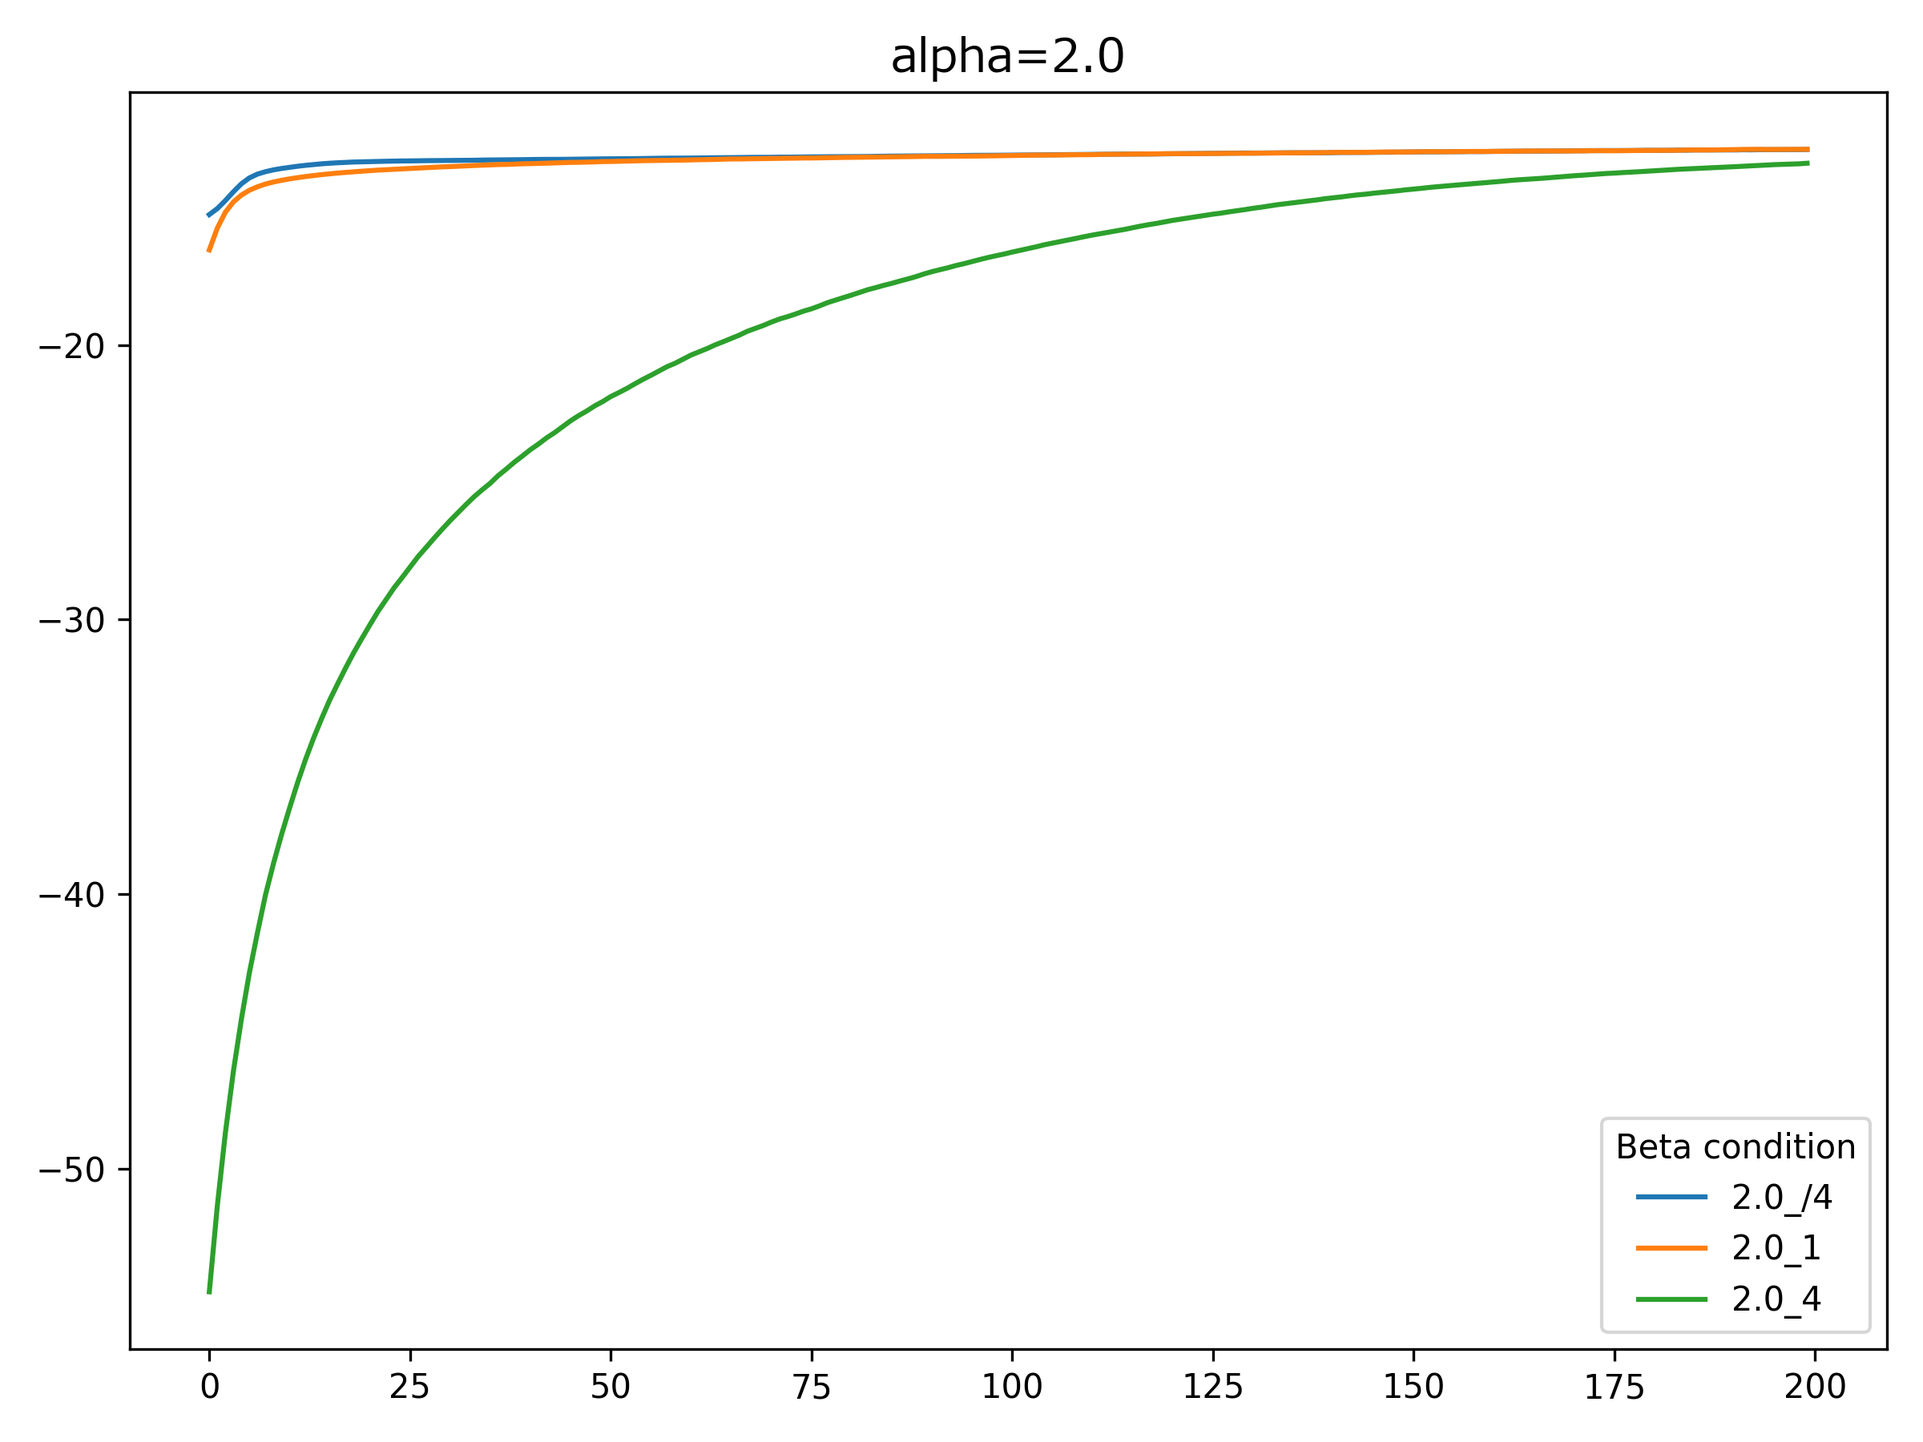
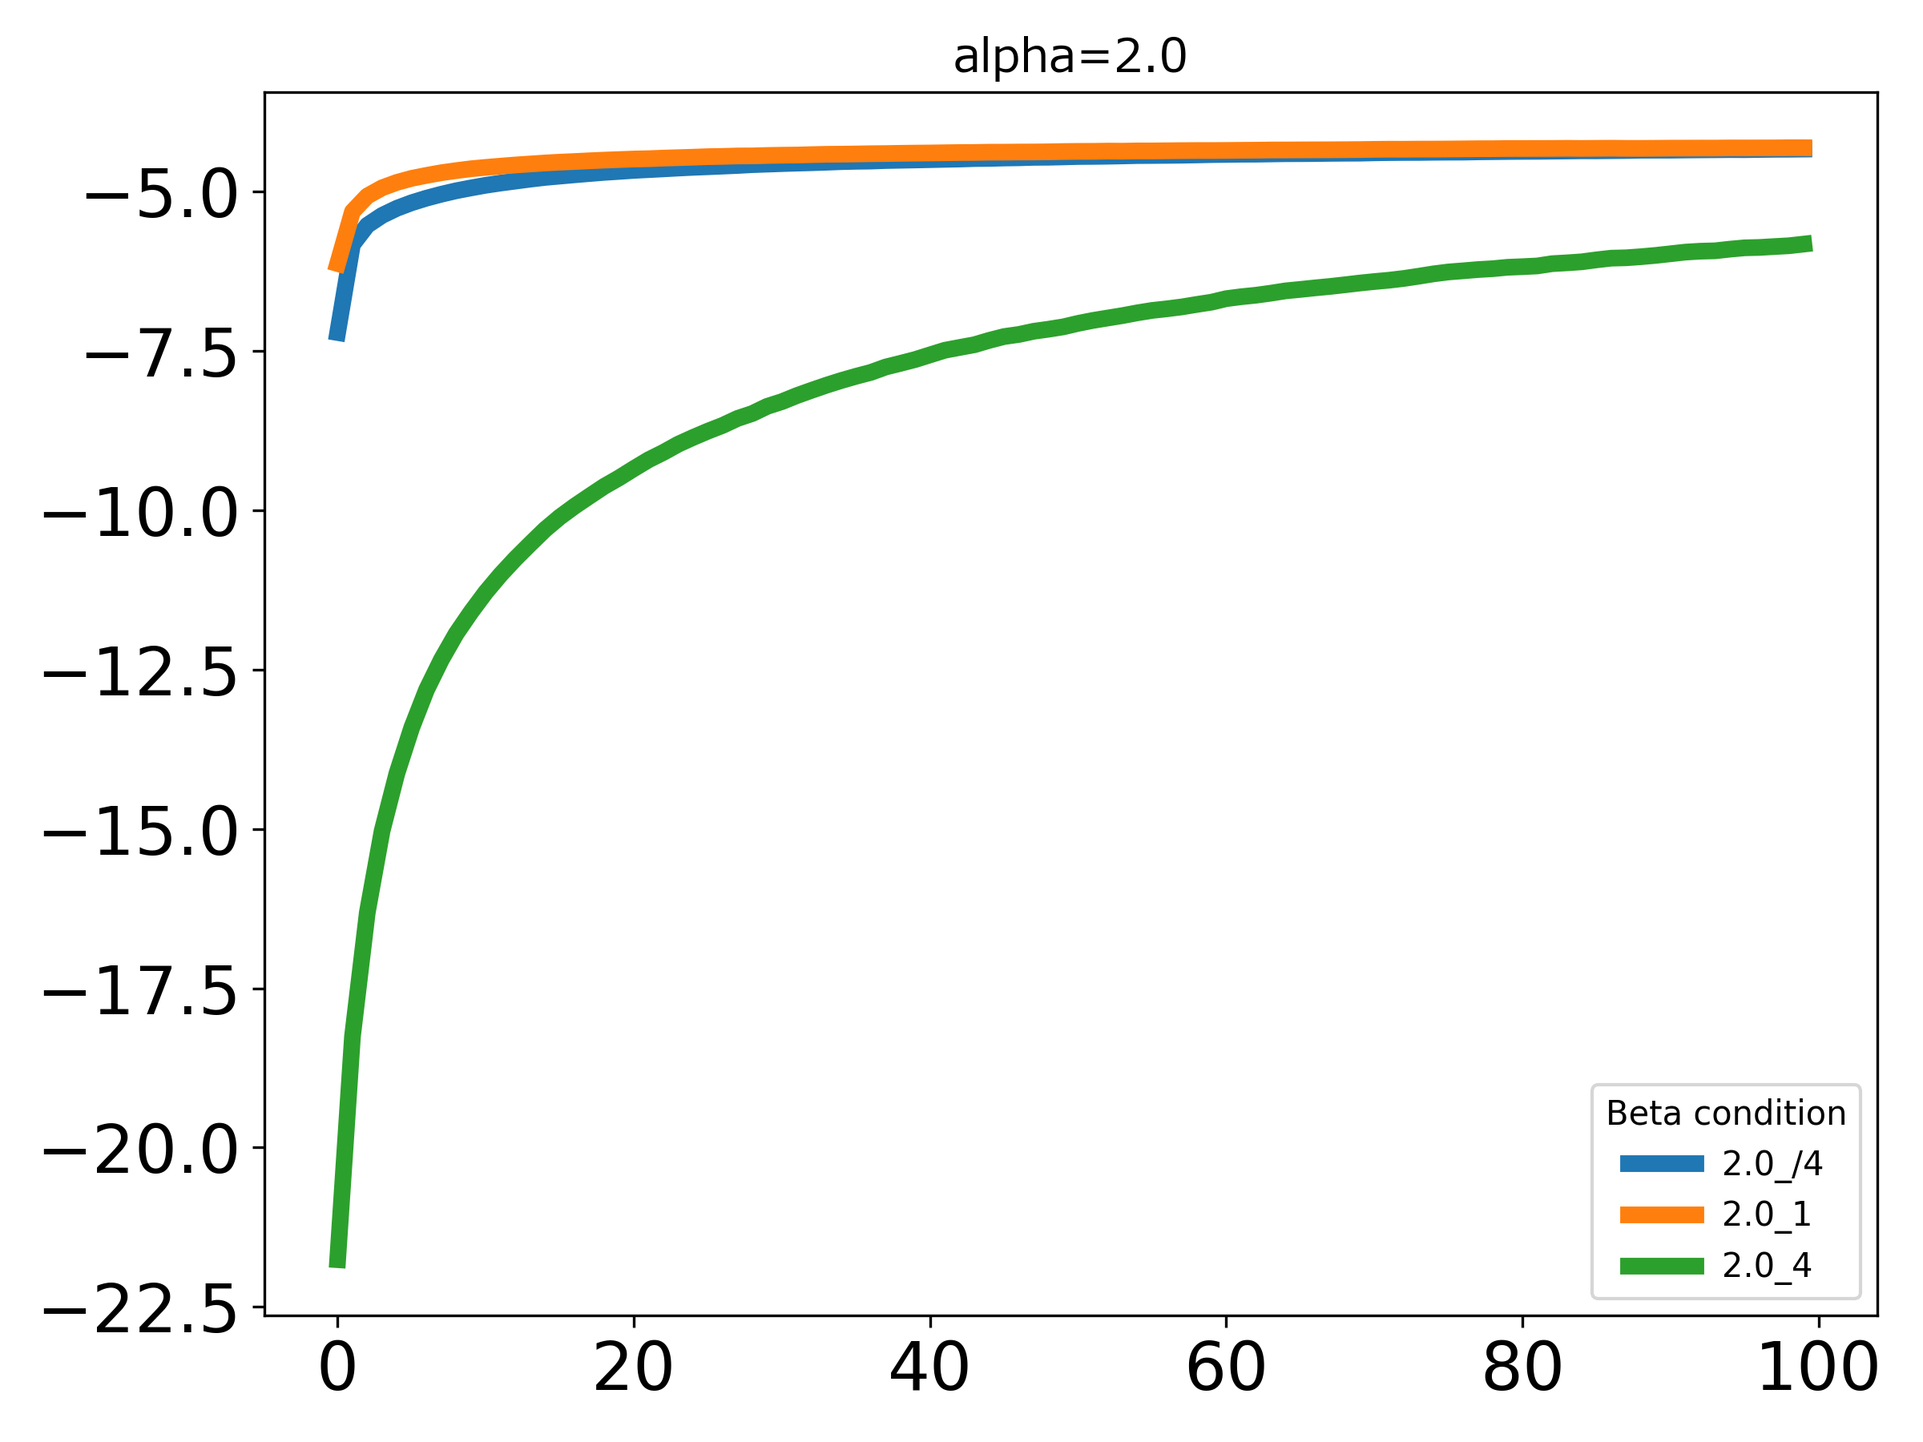
2026/11/15

diff --git a/DBRBM/train_DBRBM/training_DBRBM.py b/DBRBM/train_DBRBM/training_DBRBM.py
@@ -12,54 +12,60 @@ import csv
 # from sklearn.datasets import load_diabetes
 from sklearn.datasets import load_wine
 
-#実験設定の記述（人工データ）
-# CONFIG = {
-#     "num_visible": 10, 
-#     "alpha_list": [0.5, 1.0, 2.0],
-#     "lerning_rate": 0.01,   # ← 少し大きめにして学習速度の差を開かせる
-#     "num_epochs": 100,      # ← 収束までの過程が見える程度の長さに
-#     "cd_k": 1,
-#     "batch_size": 32,       # ← 標準的なバッチサイズで勾配を安定させる
-#     "TRIALS": 200,           # ← 乱数によるブレを消すため、最低10回は平均をとる
-#     # 教師モデルの設定
-#     "num_samples": 1000,    # ← データ数を増やして真の分布を安定させる
-#     "burn_in_steps": 1000,
-#     "teacher_beta": 3.0,
-#     "teacher_bias_scale": 0.5,
-#     "output_path": "results.csv"
-# }
+# 実験設定の記述（人工データ）
+CONFIG = {
+    "num_visible": 10, 
+    "alpha_list": [0.5],#, 1.0, 2.0
+    "lerning_rate": 0.01,   # ← 少し大きめにして学習速度の差を開かせる
+    "num_epochs": 10,      # ← 収束までの過程が見える程度の長さに
+    "cd_k": 1,
+    "batch_size": 32,       # ← 標準的なバッチサイズで勾配を安定させる
+    "TRIALS": 1,           # ← 乱数によるブレを消すため、最低10回は平均をとる
+    # 教師モデルの設定
+    "num_samples": 100,    # ← データ数を増やして真の分布を安定させる
+    "burn_in_steps": 1000,
+    "teacher_beta": 3.0,
+    "teacher_bias_scale": 0.5,
+    "output_path": "results.csv", 
+    "update_method": "sgd" #"exact" or "adam" or "sgd"
+}
+
+if CONFIG["update_method"] == "exact":
+    CONFIG["batch_size"] = CONFIG["num_samples"]  # exact法では、全データを使うためバッチサイズはデータ数と同じにする
+
 
 # train_data = load_diabetes()  # データセットをロード
-train_data = load_wine()
-X = train_data.data
-Y = train_data.target
-print("train_data.data.shape", X.shape)
-print("train_data.target.shape", Y.shape)
+# train_data = load_wine()
+# X = train_data.data
+# Y = train_data.target
+# print("train_data.data.shape", X.shape)
+# print("train_data.target.shape", Y.shape)
 
-X = pd.DataFrame(X)  # データをDataFrameに変換
-Y = pd.DataFrame(Y)  # ターゲットをDataFrameに変換
-df = pd.concat([X,Y], axis=1)
-print("train_data.shape", df.shape)
-print(df.head()) #先頭から5行を表示
+# X = pd.DataFrame(X)  # データをDataFrameに変換
+# Y = pd.DataFrame(Y)  # ターゲットをDataFrameに変換
+# df = pd.concat([X,Y], axis=1)
+# print("train_data.shape", df.shape)
+# print(df.head()) #先頭から5行を表示
 
-print("columns", len(df.columns))
-print("rows", len(df))
-# 実験設定（実データ）
-CONFIG = {
-    "num_visible": len(df.columns), 
-    "alpha_list": [0.5, 1.0, 2.0],
-    "lerning_rate": 0.01,   # ← 少し大きめにして学習速度の差を開かせる
-    "num_epochs": 200,      # ← 収束までの過程が見える程度の長さに
-    "cd_k": 1,
-    "batch_size": 16,       # ← 標準的なバッチサイズで勾配を安定させる
-    "TRIALS": 100,           # ← 乱数によるブレを消すため、最低10回は平均をとる
-    # 教師モデルの設定
-    "num_samples": len(df),    # ← データ数を増やして真の分布を安定させる
-    "burn_in_steps": 1000,
-    # "teacher_beta": 3.0,
-    # "teacher_bias_scale": 0.5,
-    "output_path": "results_wine_1.csv"
-}
+# print("columns", len(df.columns))
+# print("rows", len(df))
+# # 実験設定（実データ）
+# CONFIG = {
+#     "num_visible": len(df.columns), 
+#     "alpha_list": [0.5, 1.0, 2.0],
+#     "lerning_rate": 0.01,   # ← 少し大きめにして学習速度の差を開かせる
+#     "num_epochs":150,      # ← 収束までの過程が見える程度の長さに
+#     "cd_k": 1,
+#     "batch_size": 16,       # ← 標準的なバッチサイズで勾配を安定させる
+#     "TRIALS": 50,           # ← 乱数によるブレを消すため、最低10回は平均をとる
+#     # 教師モデルの設定
+#     "num_samples": len(df),    # ← データ数を増やして真の分布を安定させる
+#     "burn_in_steps": 1000,
+#     # "teacher_beta": 3.0,
+#     # "teacher_bias_scale": 0.5,
+#     "output_path": "results_toy_2.csv",
+#     "update_method": "adam"  # 勾配更新方法を指定（"sgd" または "adam"）
+# }
 
 #可視変数はalphaの値によって変わるので、alphaの関数として記述している？
 #main文で、num_hidden = CONFIG["num_hidden"](alpha) のように使用する。
@@ -141,6 +147,24 @@ class DBRBM:
         self.weights = np.random.normal(0, beta_max / np.sqrt(num_visible + num_hidden), (num_visible, num_hidden)) # std = beta_max / sqrt(num_visible + num_hidden)
         self.visible_bias = np.zeros(num_visible)
         self.hidden_bias = np.zeros(num_hidden)
+
+        # ====================================================
+        # 【追加】Adamオプティマイザ用のパラメータ初期化
+        # ====================================================
+        self.beta1 = 0.9      # 1次モーメント（平均）の減衰率
+        self.beta2 = 0.999    # 2次モーメント（分散）の減衰率
+        self.epsilon = 1e-8   # ゼロ割り算防止
+        self.t = 0            # 更新ステップのカウンター
+        
+        # 重みとバイアスの勾配履歴（m:1次, v:2次）をゼロ配列で準備
+        self.m_w = np.zeros_like(self.weights)
+        self.v_w = np.zeros_like(self.weights)
+        self.m_vb = np.zeros_like(self.visible_bias)
+        self.v_vb = np.zeros_like(self.visible_bias)
+        self.m_hb = np.zeros_like(self.hidden_bias)
+        self.v_hb = np.zeros_like(self.hidden_bias)
+        # ====================================================
+
         if teacher == False:
             if (num_hidden / num_visible) <= (np.log(3)/np.log(2)):
                 # αが1.58より小さい→可視層の計算量が大きい→可視層を周辺化したln_Zの計算
@@ -234,8 +258,30 @@ class DBRBM:
         # ①を用いるのは、サンプリングによるノイズを避けるため
         return v0, h0_expected, vk, hk
 
+    # def update_exact(self, batch_data):
+    #     batch_size = batch_data.shape[0] #与えられたデータからbatch_sizeを取得するか、CONFIGから取得するか。
+    #     # print("batch_size", batch_size)
+    #     v0, h0_expected, _, _ = self.cd(batch_data, k=cd_k)
+    #     # print(
+    #     #     "v0.shape",v0.shape ,
+    #     #     "\nh0_expected.shape", h0_expected.shape,
+    #     #     )
+        
+    #     #勾配計算
+    #     db = np.mean(v0, axis=0) - #可視変数の期待値
+    #     # print("db.shape", db.shape)
+    #     dc = np.mean(h0_expected, axis=0) - #隠れ変数の期待値
+    #     # print("dc.shape", dc.shape)
+    #     dw = np.dot(v0.T, h0_expected)/batch_size - #可視変数と隠れ変数の期待値
+    #     # print("dw.shape", dw.shape)
+        
+    #     #パラメータ更新
+    #     self.visible_bias += self.learning_rate * db
+    #     self.hidden_bias += self.learning_rate * dc
+    #     self.weights += self.learning_rate * dw
+
     #勾配更新（勾配上昇法 or adamを選択可能）
-    def update(self, batch_data, cd_k=1):
+    def update_sgd(self, batch_data, cd_k=1):
         batch_size = batch_data.shape[0] #与えられたデータからbatch_sizeを取得するか、CONFIGから取得するか。
         # print("batch_size", batch_size)
         v0, h0_expected, vk_sample, hk_sample = self.cd(batch_data, k=cd_k)
@@ -258,6 +304,45 @@ class DBRBM:
         self.visible_bias += self.learning_rate * db
         self.hidden_bias += self.learning_rate * dc
         self.weights += self.learning_rate * dw
+
+    # ====================================================
+    # 【追加】Adamによる勾配更新メソッド
+    # ====================================================
+    def update_adam(self, batch_data, cd_k=1):
+        batch_size = batch_data.shape[0]
+        
+        # CD法によるサンプリング（通常のupdateと同じ）
+        v0, h0_expected, vk_sample, hk_sample = self.cd(batch_data, k=cd_k)
+        
+        # 勾配の計算（通常のupdateと同じ）
+        db = np.mean(v0, axis=0) - np.mean(vk_sample, axis=0)
+        dc = np.mean(h0_expected, axis=0) - np.mean(hk_sample, axis=0)
+        dw = np.dot(v0.T, h0_expected) / batch_size - np.dot(vk_sample.T, hk_sample) / batch_size
+        
+        # ステップ数のカウントアップ
+        self.t += 1
+        
+        # --- 1. 重み (Weights) の更新 ---
+        self.m_w = self.beta1 * self.m_w + (1 - self.beta1) * dw
+        self.v_w = self.beta2 * self.v_w + (1 - self.beta2) * (dw ** 2)
+        m_w_hat = self.m_w / (1 - self.beta1 ** self.t)  # バイアス補正
+        v_w_hat = self.v_w / (1 - self.beta2 ** self.t)  # バイアス補正
+        # 勾配上昇法なので、プラス（+）で更新します
+        self.weights += self.learning_rate * m_w_hat / (np.sqrt(v_w_hat) + self.epsilon)
+
+        # --- 2. 可視バイアス (Visible Bias) の更新 ---
+        self.m_vb = self.beta1 * self.m_vb + (1 - self.beta1) * db
+        self.v_vb = self.beta2 * self.v_vb + (1 - self.beta2) * (db ** 2)
+        m_vb_hat = self.m_vb / (1 - self.beta1 ** self.t)
+        v_vb_hat = self.v_vb / (1 - self.beta2 ** self.t)
+        self.visible_bias += self.learning_rate * m_vb_hat / (np.sqrt(v_vb_hat) + self.epsilon)
+
+        # --- 3. 隠れバイアス (Hidden Bias) の更新 ---
+        self.m_hb = self.beta1 * self.m_hb + (1 - self.beta1) * dc
+        self.v_hb = self.beta2 * self.v_hb + (1 - self.beta2) * (dc ** 2)
+        m_hb_hat = self.m_hb / (1 - self.beta1 ** self.t)
+        v_hb_hat = self.v_hb / (1 - self.beta2 ** self.t)
+        self.hidden_bias += self.learning_rate * m_hb_hat / (np.sqrt(v_hb_hat) + self.epsilon)
 
     #評価指標：対数尤度関数（厳密計算）
     def log_likelihood(self, train_data):
@@ -342,11 +427,11 @@ class DBRBM:
             # print("term_C.shape", term_C.shape)
             
             ln_Z = psi_max + np.log(np.sum(term_C))
-
-
-
         return ln_Z
         
+    # def exact_expectation(self):
+
+
 #main文
 path = CONFIG["output_path"]
 trials = CONFIG["TRIALS"]
@@ -354,11 +439,11 @@ epochs = CONFIG["num_epochs"]
 
 results_dict = {"epoch": np.arange(epochs)}
 
-# データを3値化（-1, 0, 1）する
-df = df.apply(discretize_to_ternary)
-df = df.values  # DataFrameをNumPy配列に変換
-print(df[:, 1])
-print(df)
+# # データを3値化（-1, 0, 1）する
+# df = df.apply(discretize_to_ternary)
+# df = df.values  # DataFrameをNumPy配列に変換
+# print(df[:, 1])
+# print(df)
 
 
 for alpha, beta in zip(CONFIG["alpha_list"], CONFIG["beta_max"]):
@@ -372,21 +457,26 @@ for alpha, beta in zip(CONFIG["alpha_list"], CONFIG["beta_max"]):
     # α毎にキャンバスを更新
     # fig, ax = plt.subplots()
 
+    # beta_conditions = [
+    #     (f"{alpha}_/4", beta/4),
+    #     (f"{alpha}_1", beta),
+    #     (f"{alpha}_4", 4*beta)
+    # ]  # βの条件をリストで定義
+
     beta_conditions = [
-        (f"{alpha}_/4", beta/4),
-        (f"{alpha}_1", beta),
-        (f"{alpha}_4", 4*beta)
+        (f"{alpha}_/4", beta/4)
     ]  # βの条件をリストで定義
 
     # 各モデルに対する3通りの初期化
     for label, beta in beta_conditions:
+        print("===== beta condition:", label, beta, "=====")
 
         ll_array = np.zeros((trials, epochs))
         # print("ll_array.shape", ll_array.shape)
 
         for trial in range(CONFIG["TRIALS"]):
-            # train_data = generate_train_data()
-            train_data = df
+            train_data = generate_train_data()
+            # train_data = df
             model = DBRBM(
                 num_visible=CONFIG["num_visible"],
                 num_hidden=CONFIG["num_hidden"](alpha),
@@ -395,30 +485,57 @@ for alpha, beta in zip(CONFIG["alpha_list"], CONFIG["beta_max"]):
                 )
             
             prog = epochs/10
-            batch_size = CONFIG["batch_size"] #: データセットのバッチサイズ
-            #n_samples : データセットのサンプル数
 
-            for epoch in range(epochs):
-                #print(f"===== epoch : {epoch} =====")
-                
-                #各epochでデータをシャッフル
-                indices = np.random.permutation(n_samples)
-                # print("indices", indices)
-                shuffled_data = train_data[indices]
-                # print("train_data\n", shuffled_data)
+            if CONFIG["update_method"] == "exact":
+                print("update_method: exact")
+                batch_size = CONFIG["batch_size"] #: データセットのバッチサイズ
 
-                for i in range(0, n_samples, batch_size):
-                    batch_data = shuffled_data[i : i + batch_size]
-                    model.update(batch_data, cd_k=1)
-                
-                
-                if(epoch % 1 == 0):
-                    ll = model.log_likelihood(train_data)
-                    ll_array[trial, epoch] = ll
-                
-                if (epoch+1) % prog == 0:
-                    print("■", end="", flush=True)
-            print()
+                for epoch in range(epochs):
+                    # print(f"===== epoch : {epoch} =====")
+                    batch_data = train_data
+
+                    # 分配関数の計算
+                    # 厳密計算で分配関数の対数の計算を1回で抑えられるように、対数尤度関数計算→分配関数計算の順にしようとしているが、cd法を用いた勾配更新でも同じ順番でも変わらないのでは？
+                    ln_Z = model.ln_Z()
+
+                    if(epoch % 1 == 0):
+                        ll = model.log_likelihood(train_data)
+                        ll_array[trial, epoch] = ll
+
+                    model.update_exact(batch_data)
+
+                    if (epoch+1) % prog == 0:
+                        print("■", end="", flush=True)
+
+
+
+
+            elif CONFIG["update_method"] == "sgd":
+                print("update_method: sgd")
+                batch_size = CONFIG["batch_size"] #: データセットのバッチサイズ
+                #n_samples : データセットのサンプル数
+
+                for epoch in range(epochs):
+                    #print(f"===== epoch : {epoch} =====")
+                    
+                    #各epochでデータをシャッフル
+                    indices = np.random.permutation(n_samples)
+                    # print("indices", indices)
+                    shuffled_data = train_data[indices]
+                    # print("train_data\n", shuffled_data)
+
+                    for i in range(0, n_samples, batch_size):
+                        batch_data = shuffled_data[i : i + batch_size]
+                        model.update_sgd (batch_data, cd_k=1)
+                    
+                    
+                    if(epoch % 1 == 0):
+                        ll = model.log_likelihood(train_data)
+                        ll_array[trial, epoch] = ll
+                    
+                    if (epoch+1) % prog == 0:
+                        print("■", end="", flush=True)
+                # print()
         ll_mean = np.mean(ll_array, axis=0)
         print()
         # データを用意

diff --git a/DBRBM/train_DBRBM/plot.py b/DBRBM/train_DBRBM/plot.py
@@ -2,13 +2,17 @@ import pandas as pd
 import matplotlib.pyplot as plt
 
 # 1行目のCONFIG設定行をスキップして、2行目をヘッダーとしてCSVを読み込む
-df = pd.read_csv('results_wine_1.csv', skiprows=1)
+df = pd.read_csv('results_toy_1.csv', skiprows=1)
 
 # x軸のデータ（1列目: 'epoch'）を取得
 x = df['epoch']
 
 # グラフを描画するための設定 (3つのalphaについてループで処理)
 alpha_values = [0.5, 1.0, 2.0]
+
+# グラフの描画設定
+linewidth = 5
+labelsize = 20
 
 for i, alpha in enumerate(alpha_values):
     # 各alphaに対応する列のインデックスを計算
@@ -26,13 +30,14 @@ for i, alpha in enumerate(alpha_values):
     
     # 対象の3列分、グラフに線を重ねて描画
     for col in y_cols:
-        ax.plot(x, df[col], label=col)
+        ax.plot(x, df[col], label=col, linewidth=linewidth)
         
     # グラフの体裁を整える
     ax.set_title(f'alpha={alpha}', fontsize=14, fontname="Meiryo")
     # ax.set_xlabel('Epoch', fontsize=12)
     # ax.set_ylabel('Log-Likelihood', fontsize=12)
     ax.legend(title='Beta condition')
+    ax.tick_params(axis='both', which='major', labelsize=labelsize)
     # ax.grid(True, linestyle='--', alpha=0.7)
     
     # グラフを保存して表示
